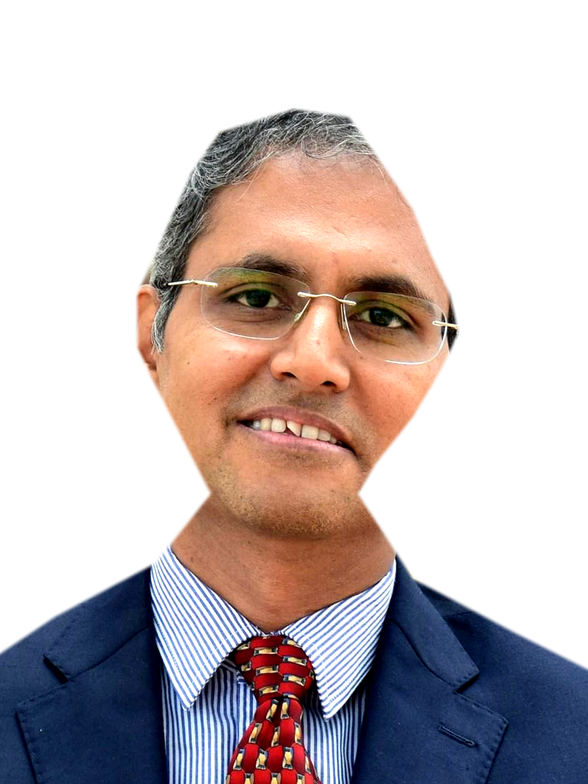
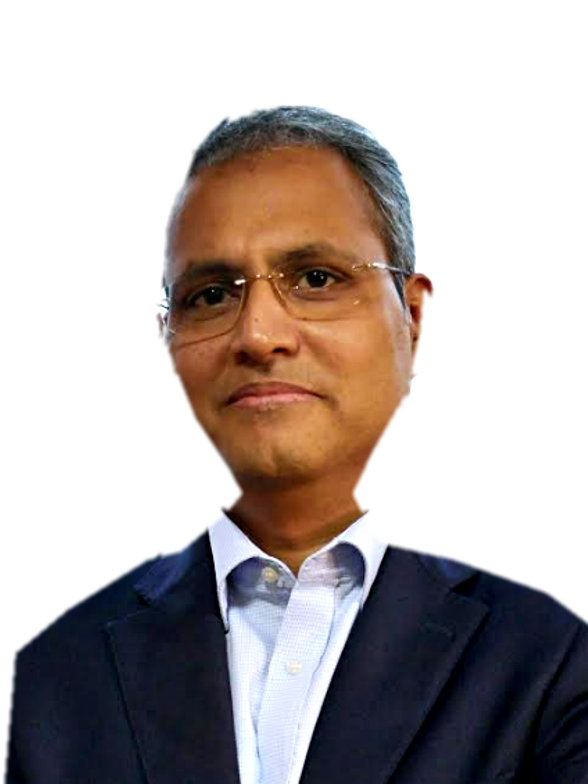
Replace the Virendra Somwanshi and Ankit Agarwal portraits with better ones found online
The client accepted the first three mentor cards and asked for new
photographs for the last three. Two were available: Ankit Agarwal's
official portrait on Globe Capital's own site (arms folded, full torso),
and the Equalifi IWTS 2023 speaker photograph of Virendra Somwanshi — the
press photograph Drive held turned out to be the same café picture every
outlet ran, and Federal Bank's site blocks automated fetches of his
official one. Both are cut to the card canvas at the set's framing;
Virendra's is traced by hand and trimmed against the window behind him.

Bony Niranjan Dalal has no photograph online at all, so his card is
unchanged; the content file says so, and says where each of the others
came from and that none is licensed to 8X.

diff --git a/src/content/home.ts b/src/content/home.ts
@@ -528,13 +528,17 @@ export const mentorsIntro = {
  * thumbnails, too soft to fill a card; the client asked for better ones
  * found online. Dr. Jhunjhunwala's is the same studio portrait at 900 ×
  * 1200 from the CIKS board-of-trustees page (ciks.org); Suresh Nanda's is
- * the headshot on UV Capital's site (uvcapital.in), 729 × 994. Deepak
- * Chitnis's official Lodha Group portrait is the same 375px file Drive
- * already had, and nothing larger is published; Federal Bank's site refuses
- * automated fetches of Virendra Somwanshi's official photograph, so his is
- * still Drive's; Bony Niranjan Dalal has no photograph online at all, so his
- * is still Drive's conference close-up, which stops at the shoulders. None
- * of these photographs is the client's own and none is licensed to 8X;
+ * the headshot on UV Capital's site (uvcapital.in), 729 × 994; Ankit
+ * Agarwal's is his portrait on Globe Capital's own site (globecapital.com),
+ * 388 × 486, arms folded, which is the only size it is published at;
+ * Virendra Somwanshi's is the Equalifi IWTS 2023 speaker photograph
+ * (equalifi.org), 800 × 601 — Federal Bank's site refuses automated fetches
+ * of his official one, and the press photograph Drive had is the same
+ * picture every outlet ran. Deepak Chitnis's official Lodha Group portrait
+ * is the same 375px file Drive already had, and nothing larger is
+ * published. Bony Niranjan Dalal has no photograph online at all, so his is
+ * still Drive's conference close-up, which stops at the shoulders. None of
+ * these photographs is the client's own and none is licensed to 8X;
  * publishing them needs the subjects' or the publishers' say-so.
  *
  * The files in `public/images/mentors/` are cut out and set on the card's
